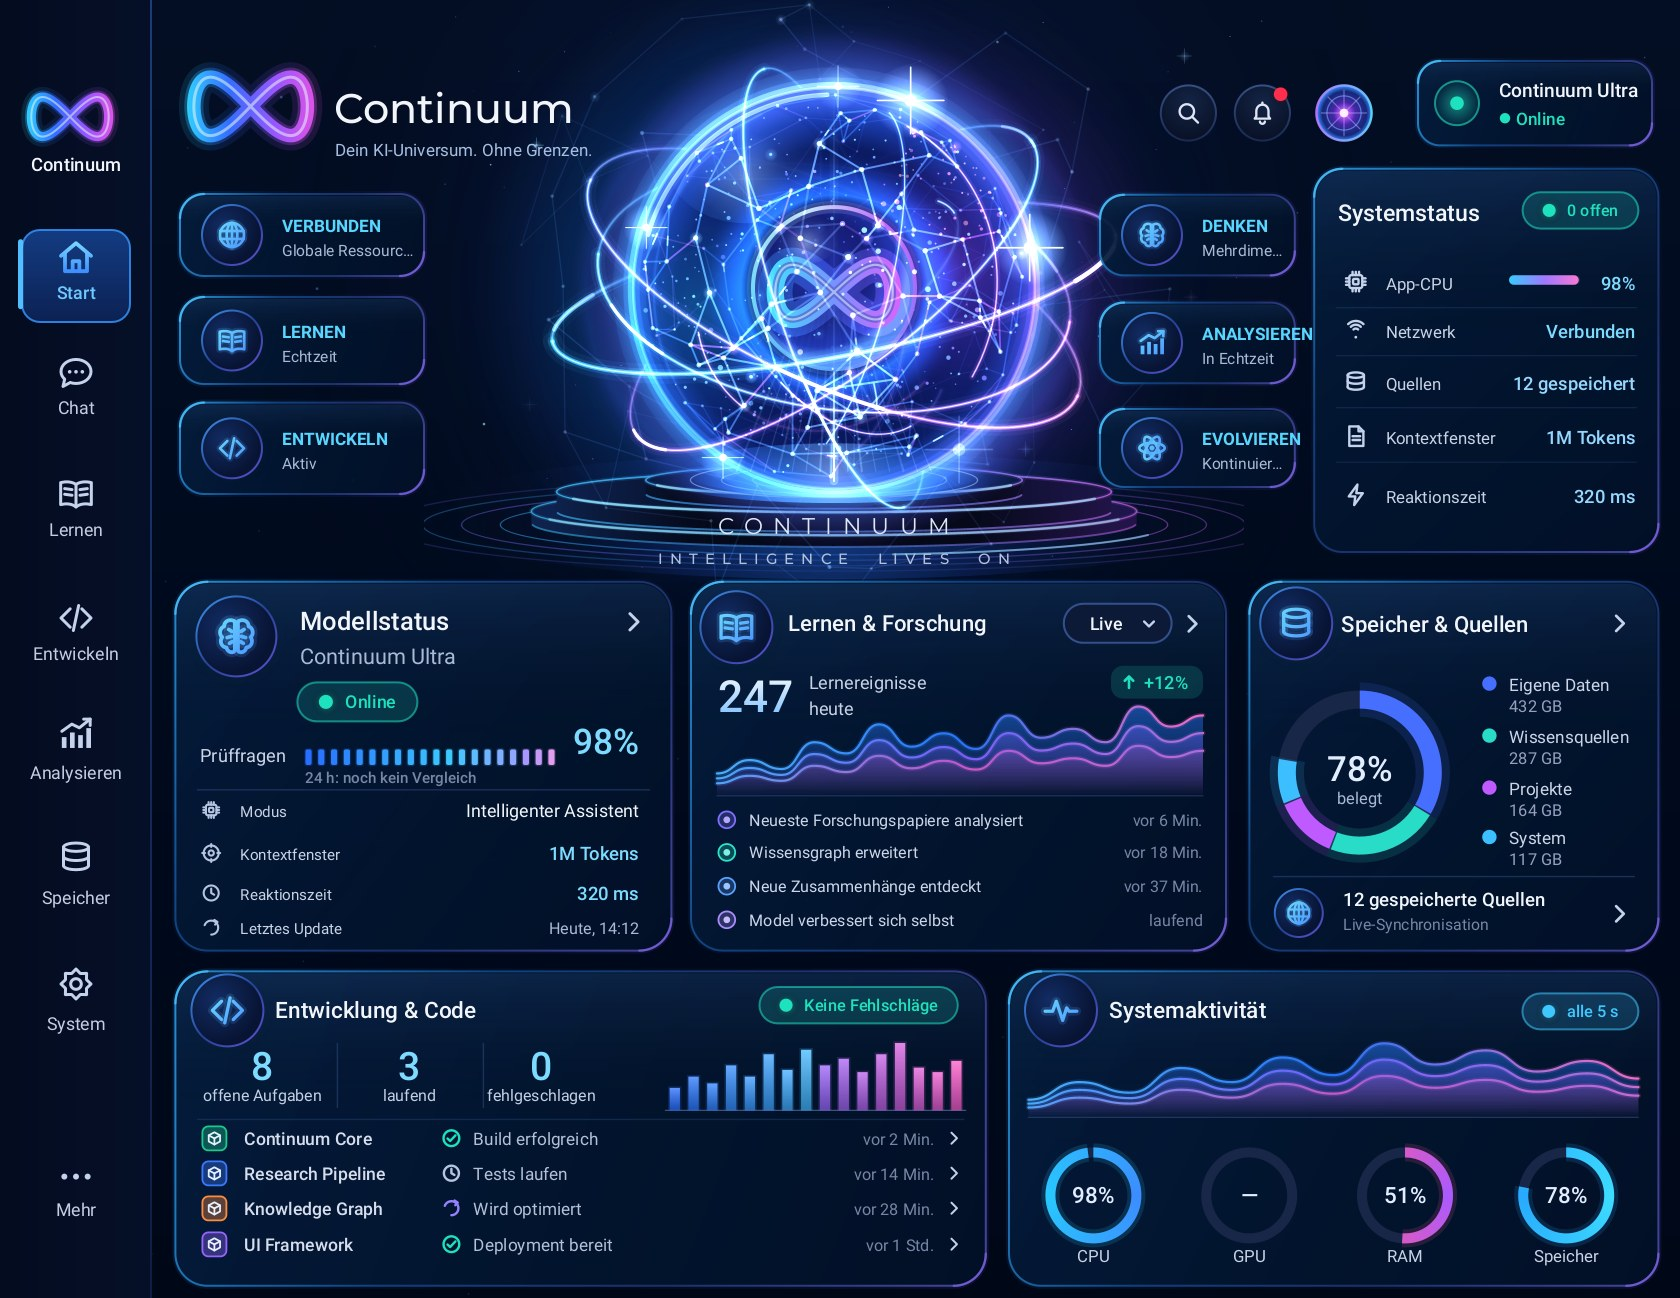
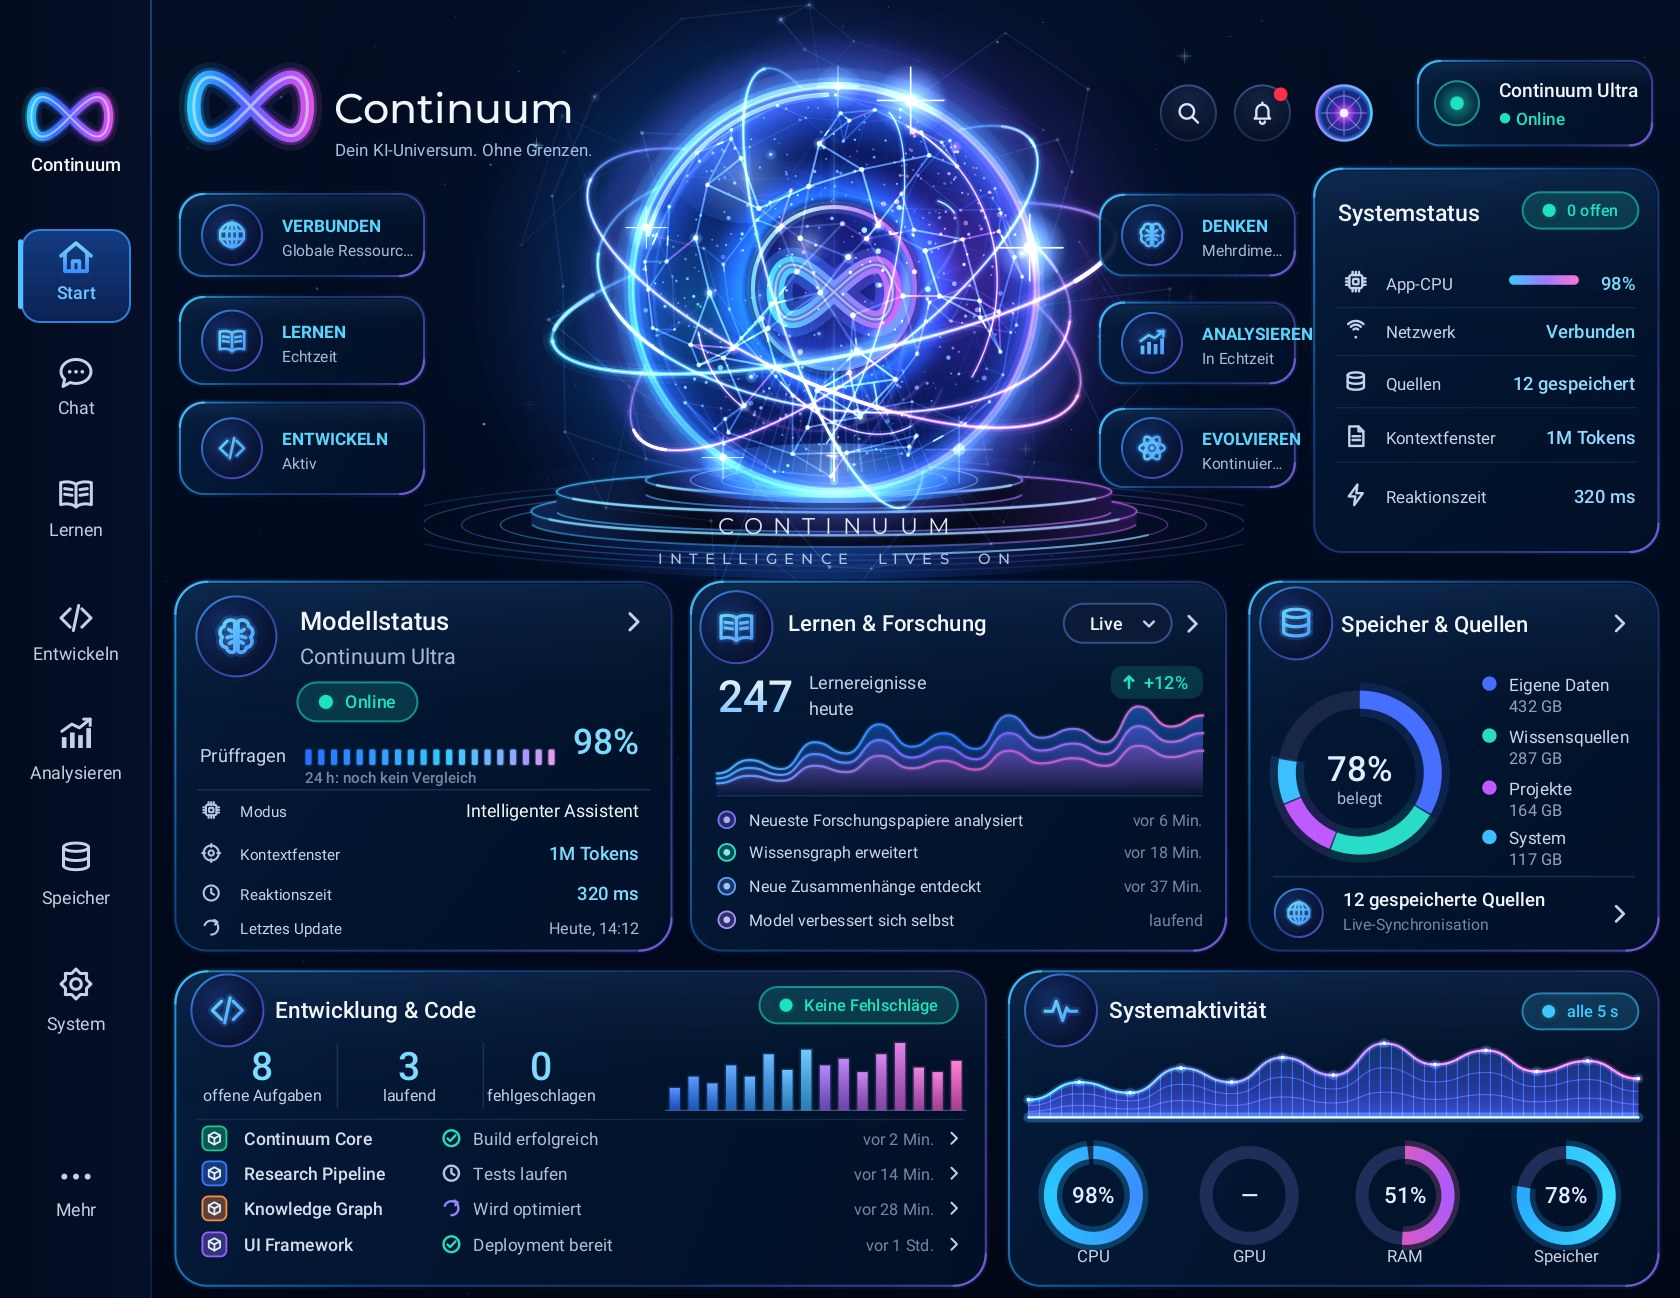
feat(ui): system activity as a luminous ridge of the measured series, glowing gauges
The Fold's system activity draws the real app-CPU series as a ridge over a wireframe made from the same data
(vertical mesh lines from the baseline up to the drawn curve, contour lines at 2/3 and 1/3 of it), filled with
light rising from a glowing horizon as in reference-fold.png, and one glowing point on every real sample. No
height is invented: each is a measured value or a fixed fraction of it; without measurements only the axis is
drawn. The gauges are thicker with an additive glow around the measured arc only (GPU stays an empty track).
Measured (Fold SYSTEM_ACTIVITY; pixel / 4 dp low-frequency / edge): 30.7 / 20.3 / 0.130 -> 30.0 / 18.1 / 0.141.
A first variant with light fading towards the baseline was worse (31.3 / 21.2) and was changed: the reference
is brightest at the horizon (docs/evidence/ui-20261023/measurements.txt, v8-v10).
Tests: RidgeChartTest (sample points exactly at the measurements, mesh ends on the curve, empty series draws
only the axis, light mode switched off) - UI JVM 19/19.

Claude-Session: https://claude.ai/code/session_01KTkwD89ZMMrGPBva5rXu24

Changed region(s): [[0.5881, 0.8012, 0.9905, 0.9861]]

diff --git a/app/src/test/java/at/heinz/deviceai/ui/RidgeChartTest.kt b/app/src/test/java/at/heinz/deviceai/ui/RidgeChartTest.kt
@@ -1,0 +1,75 @@
+package at.heinz.deviceai.ui
+
+import org.junit.Assert.assertEquals
+import org.junit.Assert.assertFalse
+import org.junit.Assert.assertTrue
+import org.junit.Test
+
+/** The system-activity ridge shows only measured values: one point per sample, mesh up to the drawn curve. */
+class RidgeChartTest {
+    private val l = 10f; private val t = 34f; private val r = 310f; private val b = 73f
+
+    @Test fun everySamplePointIsAMeasuredValue() {
+        val series = listOf(3f, 9f, 4f, 12f, 6f, 0f, 8f)
+        val p = RecordingPainter()
+        WaveChart.drawRidge(p, l, t, r, b, series)
+        val cores = p.circles.filter { kotlin.math.abs(it.third - .95f) < 1e-3f }
+        assertEquals(series.size, cores.size)
+        for ((i, c) in cores.withIndex()) {
+            assertEquals(l + (r - l) * i / (series.size - 1), c.first, 1e-3f)
+            assertEquals(b - (b - t) * .95f * series[i] / 12f, c.second, 1e-3f)
+        }
+        assertFalse("light mode is switched off again", p.lightMode)
+    }
+
+    @Test fun meshLinesEndOnTheDrawnCurveAndNeverAboveTheHighestSample() {
+        val series = listOf(2f, 7f, 5f, 10f)
+        val p = RecordingPainter()
+        WaveChart.drawRidge(p, l, t, r, b, series)
+        val mesh = p.lines.filter { it[0] == it[2] && it[1] == b && it[3] < b }
+        assertTrue(mesh.size > 40)
+        val top = b - (b - t) * .95f
+        for (m in mesh) assertTrue("mesh line ends inside the chart (${m[3]})", m[3] >= top - 1e-3f)
+    }
+
+    @Test fun withoutMeasurementsOnlyTheAxisIsDrawn() {
+        for (series in listOf(emptyList(), listOf(5f), listOf(0f, 0f, 0f))) {
+            val p = RecordingPainter()
+            WaveChart.drawRidge(p, l, t, r, b, series)
+            assertEquals(1, p.lines.size)
+            assertTrue(p.circles.isEmpty() && p.paths == 0)
+        }
+    }
+
+    private class RecordingPainter : ContinuumPainter {
+        val lines = ArrayList<FloatArray>()
+        val circles = ArrayList<Triple<Float, Float, Float>>()
+        var paths = 0
+        var lightMode = false
+        override fun setAdditive(on: Boolean) { lightMode = on }
+        override fun save() {}
+        override fun restore() {}
+        override fun translate(dx: Float, dy: Float) {}
+        override fun scale(sx: Float, sy: Float, px: Float, py: Float) {}
+        override fun rotate(degrees: Float, px: Float, py: Float) {}
+        override fun clipRect(left: Float, top: Float, right: Float, bottom: Float) {}
+        override fun clipRoundRect(left: Float, top: Float, right: Float, bottom: Float, radius: Float) {}
+        override fun fillRect(left: Float, top: Float, right: Float, bottom: Float, fill: Fill, alpha: Float) {}
+        override fun fillRoundRect(left: Float, top: Float, right: Float, bottom: Float, radius: Float, fill: Fill, alpha: Float) {}
+        override fun strokeRoundRect(left: Float, top: Float, right: Float, bottom: Float, radius: Float, width: Float, fill: Fill, alpha: Float) {}
+        override fun fillOval(left: Float, top: Float, right: Float, bottom: Float, fill: Fill, alpha: Float) {
+            circles += Triple((left + right) / 2f, (top + bottom) / 2f, (right - left) / 2f)
+        }
+        override fun strokeOval(left: Float, top: Float, right: Float, bottom: Float, width: Float, fill: Fill, alpha: Float) {}
+        override fun strokeArc(left: Float, top: Float, right: Float, bottom: Float, startDegrees: Float, sweepDegrees: Float,
+                               width: Float, fill: Fill, alpha: Float, roundCap: Boolean) {}
+        override fun drawLine(x0: Float, y0: Float, x1: Float, y1: Float, width: Float, fill: Fill, alpha: Float, roundCap: Boolean) {
+            if (width < 1f || lines.isEmpty()) lines += floatArrayOf(x0, y0, x1, y1)
+        }
+        override fun fillPath(path: VectorPath, fill: Fill, alpha: Float) { paths++ }
+        override fun strokePath(path: VectorPath, width: Float, fill: Fill, alpha: Float, roundCap: Boolean) { paths++ }
+        override fun drawText(text: String, x: Float, y: Float, style: TextStyle, fill: Fill, align: TextAlign, alpha: Float) {}
+        override fun measureText(text: String, style: TextStyle): Float = 0f
+        override fun capHeight(style: TextStyle): Float = 0f
+    }
+}

diff --git a/app/src/main/java/at/heinz/deviceai/ui/ContinuumHomeElements.kt b/app/src/main/java/at/heinz/deviceai/ui/ContinuumHomeElements.kt
@@ -320,6 +320,70 @@ object WaveChart {
         }
     }
 
+    private val ridgeBase = Fill.Solid(Argb.rgb(40, 60, 110))
+    private val meshFill = Fill.Solid(Argb.rgb(70, 140, 255))
+    private val contourFill = Fill.Solid(Argb.rgb(150, 110, 255))
+    private val sampleGlow = Fill.Solid(Argb.rgb(90, 170, 255))
+    private val sampleCore = Fill.Solid(Argb.rgb(200, 240, 255))
+    private val baselineGlow = Fill.Solid(Argb.rgb(90, 160, 255))
+    private var ridgeKey = FloatArray(0)
+    private var ridgeFills = emptyList<Fill>()
+
+    /**
+     * Mountain style of the measured system activity (as in reference-fold.png): the series is a luminous ridge over
+     * a wireframe made from the same data - vertical mesh lines from the baseline up to the drawn curve, and contour
+     * lines that are the curve scaled to 2/3 and 1/3 - with a glowing point on every real sample and a glowing
+     * baseline. Nothing is invented: every height is a measured value or a fixed fraction of it.
+     */
+    fun drawRidge(p: ContinuumPainter, l: Float, t: Float, r: Float, b: Float, series: List<Float>, meshStep: Float = 5.5f) {
+        p.drawLine(l, b, r, b, .6f, ridgeBase, .8f)
+        if (series.size < 2 || series.maxOrNull()?.let { it <= 0f } != false) return
+        val maxV = series.maxOrNull()!!.coerceAtLeast(1e-6f)
+        val key = floatArrayOf(l, t, r, b)
+        if (!key.contentEquals(ridgeKey)) {
+            ridgeKey = key
+            ridgeFills = listOf(
+                // light rises from the horizon: brightest at the baseline, as in the reference
+                Fill.Linear(0f, t, 0f, b, intArrayOf(Argb.of(70, 60, 110, 255), Argb.of(150, 60, 84, 232), Argb.of(215, 72, 92, 245)), floatArrayOf(0f, .65f, 1f)),
+                Fill.Linear(l, 0f, r, 0f, intArrayOf(Argb.rgb(70, 170, 255), Argb.rgb(150, 100, 255), Argb.rgb(255, 100, 200))))
+        }
+        val n = series.size
+        fun px(i: Int) = l + (r - l) * i / (n - 1)
+        fun py(i: Int, k: Float = 1f) = b - (b - t) * .95f * (series[i] / maxV) * k
+        fun curve(k: Float) {
+            path.reset()
+            path.moveTo(px(0), py(0, k))
+            for (i in 1 until n) {
+                val mid = (px(i - 1) + px(i)) / 2f
+                path.cubicTo(mid, py(i - 1, k), mid, py(i, k), px(i), py(i, k))
+            }
+        }
+        curve(1f)
+        path.lineTo(px(n - 1), b).lineTo(px(0), b).close()
+        p.fillPath(path, ridgeFills[0])
+        p.setAdditive(true)
+        var x = l
+        while (x <= r + .01f) {
+            val (_, y) = markerOnCurve(l, t, r, b, series, maxV, ((x - l) / (r - l)).coerceIn(0f, 1f))
+            p.drawLine(x, b, x, y, .5f, meshFill, .42f, roundCap = false)
+            x += meshStep
+        }
+        for (k in floatArrayOf(.34f, .67f)) {
+            curve(k)
+            p.strokePath(path, .55f, contourFill, .35f)
+        }
+        curve(1f)
+        p.strokePath(path, 3.2f, ridgeFills[1], .22f)
+        p.strokePath(path, 1.2f, ridgeFills[1], .95f)
+        for (i in 0 until n) {
+            p.fillCircle(px(i), py(i), 2.6f, sampleGlow, .22f)
+            p.fillCircle(px(i), py(i), .95f, sampleCore, .9f)
+        }
+        p.drawLine(l, b, r, b, 5f, baselineGlow, .3f)
+        p.drawLine(l, b, r, b, 1.2f, sampleCore, .8f)
+        p.setAdditive(false)
+    }
+
     /**
      * Point of the traveling marker on the drawn front curve. Between two real samples the curve is the cubic
      * x(u) = x0 + (x1 − x0)(1.5u(1 − u) + u³), y(u) = y0 + (y1 − y0)u²(3 − 2u) (control points at the segment middle);

diff --git a/app/src/main/java/at/heinz/deviceai/ui/ContinuumWideElements.kt b/app/src/main/java/at/heinz/deviceai/ui/ContinuumWideElements.kt
@@ -262,13 +262,17 @@ class WideDevelopmentCardElement(textScale: Float = 1f) : ContinuumElement(textS
  * Android without root: —), RAM and storage use. Connectivity has no measured level and therefore no gauge.
  */
 class SystemActivityElement(textScale: Float = 1f) : ContinuumElement(textScale) {
+    private val gaugeTrack = Fill.Solid(Argb.rgb(30, 46, 88))
+    private val gaugeGlows = listOf(Argb.rgb(40, 200, 255), Argb.rgb(150, 110, 255), Argb.rgb(255, 90, 150), Argb.rgb(40, 170, 255))
+        .map { Fill.Solid(it) }
+
     override fun draw(p: ContinuumPainter, w: Float, h: Float, s: ContinuumDashboardState) {
         val sy = s.system
         ContinuumSurfaces.glassCard(p, 0f, 0f, w, h)
         ContinuumSurfaces.iconDisc(p, Icon.PULSE, 26f, 19.5f, 36f, 20f)
         p.drawText("Systemaktivität", 50f, 23.4f, t(500, 11.3f), Fill.Solid(ContinuumTheme.TEXT))
         ContinuumSurfaces.pill(p, w - 10f, 11f, 18f, "alle 5 s", t(500, 8.2f), ContinuumTheme.CYAN, alignRight = true)
-        WaveChart.draw(p, 9.7f, 34f, w - 10f, 73f, sy.activity)
+        WaveChart.drawRidge(p, 9.7f, 34f, w - 10f, 73f, sy.activity)
         val gauges = listOf(
             Triple("CPU", sy.appCpuPercent, intArrayOf(Argb.rgb(40, 200, 255), Argb.rgb(60, 140, 255))),
             Triple("GPU", null as Int?, intArrayOf(Argb.rgb(150, 110, 255), Argb.rgb(190, 120, 255))),
@@ -278,10 +282,14 @@ class SystemActivityElement(textScale: Float = 1f) : ContinuumElement(textScale)
         val xs = floatArrayOf(42.2f, 120.1f, 198f, 278.6f).map { it * w / 324.7f }
         for ((i, g) in gauges.withIndex()) {
             val cx = xs[i]; val cy = 112f; val rr = 21.5f
-            p.strokeCircle(cx, cy, rr, 5f, Fill.Solid(Argb.rgb(24, 38, 72)))
+            p.strokeCircle(cx, cy, rr, 6.5f, gaugeTrack)
             g.second?.let { v ->
-                p.strokeArc(cx - rr, cy - rr, cx + rr, cy + rr, -90f, 360f * v.coerceIn(0, 100) / 100f, 9f, Fill.Solid(g.third[0]), .15f, roundCap = false)
-                p.strokeArc(cx - rr, cy - rr, cx + rr, cy + rr, -90f, 360f * v.coerceIn(0, 100) / 100f, 5f,
+                // measured share only; the glow is additive light around the same arc
+                val sweep = 360f * v.coerceIn(0, 100) / 100f
+                p.setAdditive(true)
+                p.strokeArc(cx - rr, cy - rr, cx + rr, cy + rr, -90f, sweep, 12f, gaugeGlows[i], .2f, roundCap = false)
+                p.setAdditive(false)
+                p.strokeArc(cx - rr, cy - rr, cx + rr, cy + rr, -90f, sweep, 6.5f,
                     Fill.Sweep(cx, cy, intArrayOf(g.third[1], g.third[0], g.third[1])), roundCap = false)
             }
             p.drawText(ContinuumDashboardState.percent(g.second), cx, cy + 4f, t(500, 11.2f), Fill.Solid(Argb.rgb(226, 238, 255)), TextAlign.CENTER)
